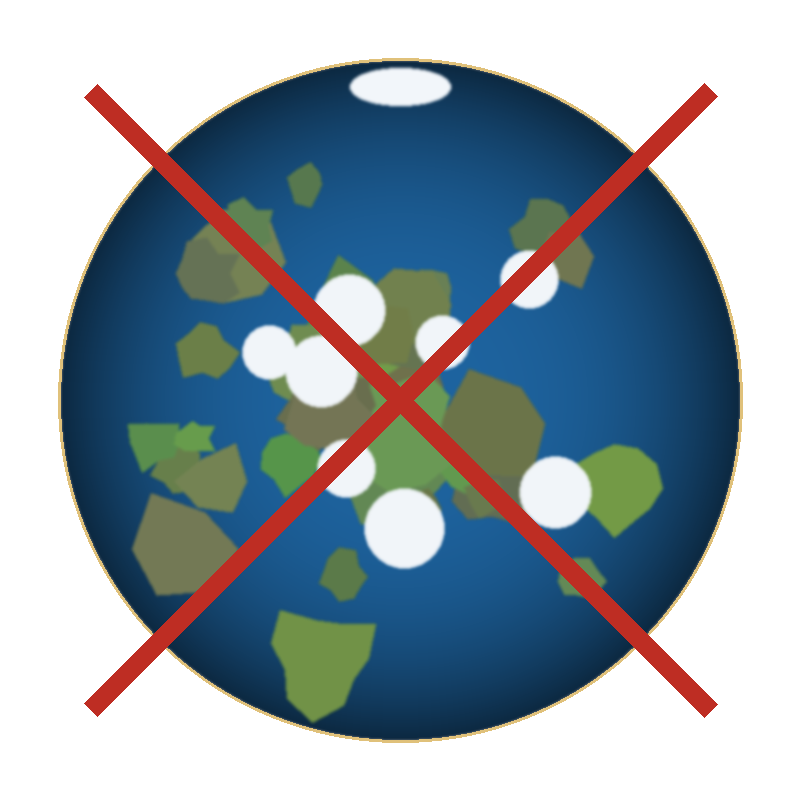
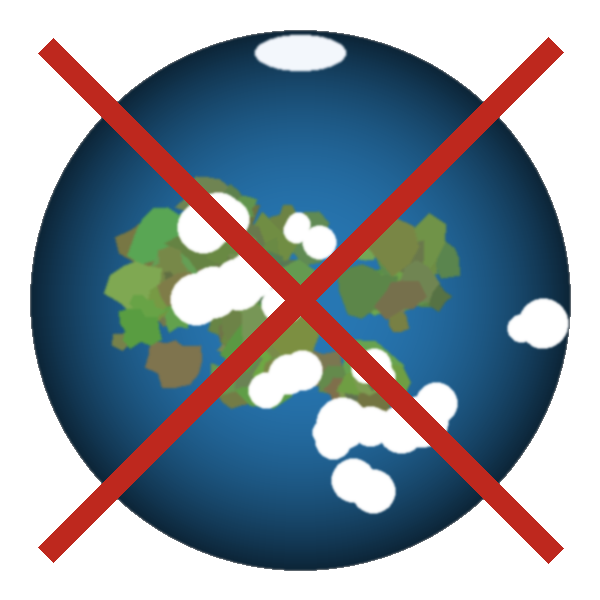
v10: 404 sombre, courbure textes agrandis, rotation fixee, AE routes image

Changed region(s): [[0.03, 0.03, 0.96, 0.96]]

diff --git a/src/components/lab/CurvatureCalc.tsx b/src/components/lab/CurvatureCalc.tsx
@@ -4,66 +4,51 @@ import { Canvas } from '@react-three/fiber';
 import { OrbitControls, Line, Html } from '@react-three/drei';
 import * as THREE from 'three';
 
-const R = 6371; // km
+const R = 6371;
+function horizonDist(h:number):number{return Math.sqrt((R+h)**2-R**2);}
+function hiddenH(d:number,h:number):number{const a=horizonDist(h);if(d<=a)return 0;return Math.sqrt(R**2+(d-a)**2)-R;}
+function curvDrop(d:number):number{return d**2/(2*R);}
+function fmt(km:number):string{if(km>=1)return km.toFixed(2)+' km';if(km>=0.001)return(km*1000).toFixed(1)+' m';return(km*100000).toFixed(1)+' cm';}
 
-// ─── Formules exactes (Pythagore) ───────────────
-function horizonDist(h: number): number { return Math.sqrt((R+h)**2 - R**2); }
-function hiddenH(d: number, h: number): number {
-  const a = horizonDist(h); if (d<=a) return 0;
-  return Math.sqrt(R**2 + (d-a)**2) - R;
-}
-function curvDrop(d: number): number { return d**2 / (2*R); }
-function fmt(km: number): string {
-  if(km>=1) return km.toFixed(2)+' km';
-  if(km>=0.001) return (km*1000).toFixed(1)+' m';
-  return (km*100000).toFixed(1)+' cm';
-}
-
-// Données vérifiées
 const PRESETS = [
-  { label:'Bedford Level',    d:10,  oh:0.2,   th:0.9,   note:'Télescope 20cm, drapeau 90cm, 10km' },
-  { label:'Chicago 90 km',    d:90,  oh:1.7,   th:443,   note:'Obs 1.7m, Willis Tower 443m' },
-  { label:'Canigou 263 km',   d:263, oh:50,    th:2784,  note:'Obs 50m (Marseille), sommet 2784m' },
-  { label:'Finestrelles 443 km', d:443, oh:2820, th:3144, note:'Pic Finestrelles 2820m → Pic Gaspard 3144m' },
-  { label:'Douvres→Calais',   d:33,  oh:100,   th:10,    note:'Falaises 100m, côte française ~10m' },
-  { label:'Everest 340 km',   d:340, oh:1.6,   th:8849,  note:'Obs 1.6m, sommet 8849m' },
-  { label:'Shkhara 493 km',   d:493, oh:3107,  th:5642,  note:'Obs 3107m → Mont Elbrouz 5642m' },
+  { label:'Finestrelles → Alpes (443 km)', d:443, oh:2820, th:4102,
+    desc:'Pic de Finestrelles (2 820 m) → Barre des Écrins (4 102 m). Record photo 2016, Marc Bret.' },
+  { label:'Navire — Île Maurice (321 km)', d:321, oh:0, th:30,
+    desc:'Observation depuis le niveau de la mer. Navire visible à 321 km (Fata Morgana, 1895).' },
+  { label:'Notre-Dame d\'Anvers (241 km)', d:241, oh:0, th:123,
+    desc:'Flèche de la cathédrale (123 m) vue par des capitaines de navires à 241 km.' },
+  { label:'Shkhara → Elbrouz (493 km)', d:493, oh:3107, th:5642,
+    desc:'Mont Karagöl (3 107 m) → Mont Elbrouz (5 642 m). Photo Richard Ježík, à travers la mer Noire.' },
 ];
 
-// ─── Input avec slider + saisie directe ─────────
-function NumInput({ label, value, onChange, min, max, unit, step=1 }:{
-  label:string; value:number; onChange:(v:number)=>void; min:number; max:number; unit:string; step?:number;
-}){
-  const display = unit==='m' 
-    ? (value>=1000 ? `${(value/1000).toFixed(1)} km` : `${value.toFixed(0)} m`)
-    : `${value} km`;
-  return (
-    <div className="border border-slate-800/50 bg-[#0A1020] p-3">
-      <label className="text-[8px] font-tech-mono text-slate-500 tracking-widest block mb-1">{label}</label>
-      <div className="flex items-center gap-2">
+function NumInput({label,value,onChange,min,max,unit,step=1}:{label:string;value:number;onChange:(v:number)=>void;min:number;max:number;unit:string;step?:number}){
+  return(
+    <div className="border border-slate-800/50 bg-[#0A1020] p-4">
+      <label className="text-[11px] font-tech-mono text-slate-400 tracking-widest block mb-2">{label}</label>
+      <div className="flex items-center gap-3">
         <input type="range" min={min} max={max} step={step} value={value}
-          onChange={e=>onChange(+e.target.value)} className="flex-1 accent-[#00C8FF]" />
+          onChange={e=>onChange(+e.target.value)} className="flex-1 accent-[#00C8FF] h-2" />
         <input type="number" min={min} max={max} step={step} value={value}
-          onChange={e=>{const v=+e.target.value; if(!isNaN(v)&&v>=min&&v<=max) onChange(v);}}
-          className="w-20 bg-[#050A12] border border-slate-700 text-[12px] font-tech-mono text-[#00C8FF] px-2 py-1 text-right"
+          onChange={e=>{const v=+e.target.value;if(!isNaN(v)&&v>=min&&v<=max)onChange(v);}}
+          className="w-24 bg-[#050A12] border border-slate-600 text-[14px] font-tech-mono text-[#00C8FF] px-3 py-2 text-right rounded-none"
         />
-        <span className="text-[9px] font-tech-mono text-slate-600 w-6">{unit}</span>
+        <span className="text-[12px] font-tech-mono text-slate-500 w-8">{unit}</span>
       </div>
     </div>
   );
 }
 
-// ─── Scène 3D ───────────────────────────────────
 function Scene({d,oh,th}:{d:number;oh:number;th:number}){
   const hidden=hiddenH(d,oh);
-  const maxDim=Math.max(d,80); const s=7/maxDim; const halfD=(d/2)*s;
+  const maxDim=Math.max(d,60);const s=5/maxDim;
   const arc=d/R;
   const curve=useMemo(()=>{
     const p:THREE.Vector3[]=[];
-    for(let i=0;i<=120;i++){const a=-arc/2+(i/120)*arc;p.push(new THREE.Vector3(Math.sin(a)*R*s,(Math.cos(a)-1)*R*s,0));}
+    for(let i=0;i<=150;i++){const a=-arc/2+(i/150)*arc;p.push(new THREE.Vector3(Math.sin(a)*R*s,(Math.cos(a)-1)*R*s,0));}
     return p;
   },[d,s,arc]);
-  const maxH=Math.max(oh,th,0.01); const hs=Math.min(s*200,4/maxH);
+  const maxH=Math.max(oh,th,0.001);const hs=Math.min(s*150,3/maxH);
+  const halfD=(d/2)*s;
   const oA=-arc/2,tA=arc/2;
   const oGx=Math.sin(oA)*R*s,oGy=(Math.cos(oA)-1)*R*s;
   const tGx=Math.sin(tA)*R*s,tGy=(Math.cos(tA)-1)*R*s;
@@ -73,46 +58,31 @@ function Scene({d,oh,th}:{d:number;oh:number;th:number}){
   const hidP:[number,number,number]=[tGx+tNx*Math.min(hidden,th)*hs,tGy+tNy*Math.min(hidden,th)*hs,0];
   const vis=hidden<th;
 
-  // Point d'horizon sur la courbe
-  const hDist=horizonDist(oh);
-  const hAngle=-arc/2 + (hDist/d)*arc;
-  const hx=Math.sin(hAngle)*R*s, hy=(Math.cos(hAngle)-1)*R*s;
-
-  return <>
+  return<>
     <ambientLight intensity={0.5}/>
-    {/* GLOBE */}
-    <group position={[0,2.5,0]}>
-      <Line points={curve} color="#00C8FF" lineWidth={2}/>
-      {/* Observateur */}
+    {/* GLOBE — centré verticalement plus haut */}
+    <group position={[0,3,0]}>
+      <Line points={curve} color="#00C8FF" lineWidth={2.5}/>
       <Line points={[new THREE.Vector3(oGx,oGy,0),new THREE.Vector3(...obsP)]} color="#00C8FF" lineWidth={2}/>
-      <mesh position={obsP}><sphereGeometry args={[0.06,12,12]}/><meshBasicMaterial color="#00C8FF"/></mesh>
-      {/* Cible — partie visible (vert) */}
-      {vis && <Line points={[
-        new THREE.Vector3(tGx+tNx*hidden*hs,tGy+tNy*hidden*hs,0),
-        new THREE.Vector3(...tgtP)
-      ]} color="#00E87B" lineWidth={2.5}/>}
-      {/* Cible — partie cachée (rouge) */}
-      {hidden>0 && <Line points={[new THREE.Vector3(tGx,tGy,0),new THREE.Vector3(...hidP)]} color="#FF4444" lineWidth={3}/>}
-      {/* Ligne de visée */}
+      <mesh position={obsP}><sphereGeometry args={[0.08,12,12]}/><meshBasicMaterial color="#00C8FF"/></mesh>
+      {vis&&<Line points={[new THREE.Vector3(tGx+tNx*hidden*hs,tGy+tNy*hidden*hs,0),new THREE.Vector3(...tgtP)]} color="#00E87B" lineWidth={3}/>}
+      {hidden>0&&<Line points={[new THREE.Vector3(tGx,tGy,0),new THREE.Vector3(...hidP)]} color="#FF4444" lineWidth={4}/>}
       <Line points={[new THREE.Vector3(...obsP),new THREE.Vector3(...tgtP)]}
         color={vis?'#00E87B':'#FF4444'} lineWidth={1} opacity={0.4} transparent dashed dashSize={0.08} gapSize={0.04}/>
-      {/* Ligne d'horizon */}
-      {hDist<d && <Line points={[new THREE.Vector3(...obsP),new THREE.Vector3(hx,hy,0)]}
-        color="#FFFFFF" lineWidth={0.5} opacity={0.2} transparent dashed dashSize={0.05} gapSize={0.03}/>}
-      <Html position={[0,4.2,0]} center distanceFactor={12} style={{pointerEvents:'none'}}>
-        <div style={{color:'#00C8FF',fontSize:'10px',fontFamily:'monospace',letterSpacing:'0.1em'}}>MODÈLE GLOBE (R = 6 371 km)</div>
+      <Html position={[0,2.5,0]} center distanceFactor={10} style={{pointerEvents:'none'}}>
+        <div style={{color:'#00C8FF',fontSize:'13px',fontFamily:'monospace',letterSpacing:'0.12em',fontWeight:'bold'}}>MODÈLE GLOBE (R = 6 371 km)</div>
       </Html>
     </group>
-    {/* PLAN */}
-    <group position={[0,-2.5,0]}>
-      <Line points={[new THREE.Vector3(-halfD-0.5,0,0),new THREE.Vector3(halfD+0.5,0,0)]} color="#D4A843" lineWidth={2}/>
+    {/* PLAN — centré plus bas */}
+    <group position={[0,-3.5,0]}>
+      <Line points={[new THREE.Vector3(-halfD-0.5,0,0),new THREE.Vector3(halfD+0.5,0,0)]} color="#D4A843" lineWidth={2.5}/>
       <Line points={[new THREE.Vector3(-halfD,0,0),new THREE.Vector3(-halfD,oh*hs,0)]} color="#D4A843" lineWidth={2}/>
-      <mesh position={[-halfD,oh*hs,0]}><sphereGeometry args={[0.06,12,12]}/><meshBasicMaterial color="#D4A843"/></mesh>
+      <mesh position={[-halfD,oh*hs,0]}><sphereGeometry args={[0.08,12,12]}/><meshBasicMaterial color="#D4A843"/></mesh>
       <Line points={[new THREE.Vector3(halfD,0,0),new THREE.Vector3(halfD,th*hs,0)]} color="#00E87B" lineWidth={2}/>
       <Line points={[new THREE.Vector3(-halfD,oh*hs,0),new THREE.Vector3(halfD,th*hs,0)]}
         color="#00E87B" lineWidth={1} opacity={0.4} transparent dashed dashSize={0.08} gapSize={0.04}/>
-      <Html position={[0,2,0]} center distanceFactor={12} style={{pointerEvents:'none'}}>
-        <div style={{color:'#D4A843',fontSize:'10px',fontFamily:'monospace',letterSpacing:'0.1em'}}>MODÈLE PLAN — toujours visible</div>
+      <Html position={[0,2,0]} center distanceFactor={10} style={{pointerEvents:'none'}}>
+        <div style={{color:'#D4A843',fontSize:'13px',fontFamily:'monospace',letterSpacing:'0.12em',fontWeight:'bold'}}>MODÈLE PLAN — toujours visible</div>
       </Html>
     </group>
     <OrbitControls enablePan enableZoom maxDistance={20} minDistance={3}/>
@@ -120,31 +90,33 @@ function Scene({d,oh,th}:{d:number;oh:number;th:number}){
 }
 
 export default function CurvatureCalc(){
-  const [dist,setDist]=useState(90);
-  const [obsM,setObsM]=useState(1.7);
-  const [tgtM,setTgtM]=useState(443);
+  const [dist,setDist]=useState(443);
+  const [obsM,setObsM]=useState(2820);
+  const [tgtM,setTgtM]=useState(4102);
   const oh=obsM/1000,th=tgtM/1000;
   const hidden=hiddenH(dist,oh);
   const hDist=horizonDist(oh);
   const drop=curvDrop(dist);
   const vis=hidden<th;
 
-  return <div className="w-full">
-    <div className="grid grid-cols-1 md:grid-cols-3 gap-3 mb-4">
-      <NumInput label="DISTANCE" value={dist} onChange={setDist} min={1} max={2000} unit="km"/>
-      <NumInput label="HAUTEUR OBSERVATEUR" value={obsM} onChange={setObsM} min={1} max={500000} unit="m"/>
-      <NumInput label="HAUTEUR CIBLE" value={tgtM} onChange={setTgtM} min={1} max={10000} unit="m"/>
+  return<div className="w-full">
+    <div className="grid grid-cols-1 md:grid-cols-3 gap-3 mb-5">
+      <NumInput label="DISTANCE" value={dist} onChange={setDist} min={0} max={2000} unit="km"/>
+      <NumInput label="HAUTEUR OBSERVATEUR" value={obsM} onChange={setObsM} min={0} max={500000} unit="m"/>
+      <NumInput label="HAUTEUR CIBLE" value={tgtM} onChange={setTgtM} min={0} max={10000} unit="m"/>
     </div>
-    <div className="flex flex-wrap gap-2 mb-4">
-      <span className="text-[8px] font-tech-mono text-slate-600 self-center">CAS RÉELS :</span>
+
+    <div className="flex flex-wrap gap-2 mb-5">
+      <span className="text-[11px] font-tech-mono text-slate-500 self-center">CAS RÉELS :</span>
       {PRESETS.map(p=>(
         <button key={p.label} onClick={()=>{setDist(p.d);setObsM(p.oh);setTgtM(p.th);}}
-          title={p.note}
-          className="px-3 py-1 text-[8px] font-tech-mono border border-slate-700 text-slate-400 hover:border-[#00C8FF]/40 hover:text-[#00C8FF] transition-all"
+          title={p.desc}
+          className="px-4 py-2 text-[11px] font-tech-mono border border-slate-600 text-slate-300 hover:border-[#00C8FF]/50 hover:text-[#00C8FF] transition-all"
         >{p.label}</button>
       ))}
     </div>
-    <div className="w-full h-[50vh] md:h-[60vh] border border-slate-800/50 bg-[#030810] relative overflow-hidden">
+
+    <div className="w-full h-[55vh] md:h-[65vh] border border-slate-800/50 bg-[#030810] relative overflow-hidden">
       <div className="absolute top-0 left-0 w-4 h-4 border-t border-l border-[#00C8FF]/30 z-10"/>
       <div className="absolute top-0 right-0 w-4 h-4 border-t border-r border-[#00C8FF]/30 z-10"/>
       <div className="absolute bottom-0 left-0 w-4 h-4 border-b border-l border-[#00C8FF]/30 z-10"/>
@@ -153,35 +125,40 @@ export default function CurvatureCalc(){
         <Scene d={dist} oh={oh} th={th}/>
       </Canvas>
     </div>
-    <div className="mt-4 grid grid-cols-2 md:grid-cols-4 gap-3">
-      <div className="border border-cyan-900/30 bg-[#0A1020] p-3">
-        <div className="text-[8px] font-tech-mono text-cyan-400/60 tracking-widest mb-1">HORIZON</div>
-        <div className="text-[16px] font-tech-mono text-cyan-400">{hDist.toFixed(1)} km</div>
-        <div className="text-[8px] font-tech-mono text-slate-500 mt-1">a = √[(R+h)² - R²]</div>
+
+    <div className="mt-5 grid grid-cols-2 md:grid-cols-4 gap-3">
+      <div className="border border-cyan-900/30 bg-[#0A1020] p-4">
+        <div className="text-[11px] font-tech-mono text-cyan-400/70 tracking-widest mb-2">HORIZON</div>
+        <div className="text-[20px] font-tech-mono text-cyan-400 font-bold">{hDist.toFixed(1)} km</div>
+        <div className="text-[10px] font-tech-mono text-slate-500 mt-1">a = √[(R+h)² - R²]</div>
       </div>
-      <div className="border border-red-900/30 bg-[#0A1020] p-3">
-        <div className="text-[8px] font-tech-mono text-red-400/60 tracking-widest mb-1">CHUTE COURBURE</div>
-        <div className="text-[16px] font-tech-mono text-red-400">{fmt(drop)}</div>
-        <div className="text-[8px] font-tech-mono text-slate-500 mt-1">h = d²/(2R)</div>
+      <div className="border border-red-900/30 bg-[#0A1020] p-4">
+        <div className="text-[11px] font-tech-mono text-red-400/70 tracking-widest mb-2">CHUTE COURBURE</div>
+        <div className="text-[20px] font-tech-mono text-red-400 font-bold">{fmt(drop)}</div>
+        <div className="text-[10px] font-tech-mono text-slate-500 mt-1">h = d²/(2R)</div>
       </div>
-      <div className="border border-amber-900/30 bg-[#0A1020] p-3">
-        <div className="text-[8px] font-tech-mono text-amber-400/60 tracking-widest mb-1">HAUTEUR CACHÉE</div>
-        <div className="text-[16px] font-tech-mono text-amber-400">{fmt(hidden)}</div>
-        <div className="text-[8px] font-tech-mono text-slate-500 mt-1">x = √[R²+(d-a)²]-R</div>
+      <div className="border border-amber-900/30 bg-[#0A1020] p-4">
+        <div className="text-[11px] font-tech-mono text-amber-400/70 tracking-widest mb-2">HAUTEUR CACHÉE</div>
+        <div className="text-[20px] font-tech-mono text-amber-400 font-bold">{fmt(hidden)}</div>
+        <div className="text-[10px] font-tech-mono text-slate-500 mt-1">x = √[R²+(d-a)²]-R</div>
       </div>
-      <div className={`border p-3 ${vis?'border-green-900/30 bg-green-950/20':'border-red-900/30 bg-red-950/20'}`}>
-        <div className="text-[8px] font-tech-mono text-slate-400/60 tracking-widest mb-1">VERDICT GLOBE</div>
-        <div className={`text-[14px] font-tech-mono ${vis?'text-green-400':'text-red-400'}`}>{vis?'✓ CIBLE VISIBLE':'✗ CIBLE MASQUÉE'}</div>
-        <div className="text-[8px] font-tech-mono text-slate-500 mt-1">
-          {vis?`Visible : ${fmt(th-hidden)} sur ${fmt(th)}`:`Caché : ${fmt(hidden)} &gt; cible : ${fmt(th)}`}
+      <div className={`border p-4 ${vis?'border-green-900/30 bg-green-950/20':'border-red-900/30 bg-red-950/20'}`}>
+        <div className="text-[11px] font-tech-mono text-slate-400/70 tracking-widest mb-2">VERDICT GLOBE</div>
+        <div className={`text-[18px] font-tech-mono font-bold ${vis?'text-green-400':'text-red-400'}`}>{vis?'✓ VISIBLE':'✗ MASQUÉE'}</div>
+        <div className="text-[10px] font-tech-mono text-slate-500 mt-1">
+          {vis?`Visible : ${fmt(th-hidden)} sur ${fmt(th)}`:`Caché : ${fmt(hidden)} > cible : ${fmt(th)}`}
         </div>
       </div>
     </div>
-    <div className="mt-3 text-[9px] font-tech-mono text-slate-600 px-1">⚠ Ne tient pas compte de la réfraction atmosphérique.</div>
-    <div className="mt-3 border-t border-slate-800/30 pt-3 flex items-center gap-4">
-      <span className="text-[8px] font-tech-mono text-slate-600">ARTICLES :</span>
-      <a href="/article/leau-ne-ment-pas" className="text-[9px] font-tech-mono text-[#00C8FF]/50 hover:text-[#00C8FF]">L&apos;eau ne ment pas →</a>
-      <a href="/article/ce-quon-voit-quand-on-ne-devrait-plus-voir" className="text-[9px] font-tech-mono text-[#00C8FF]/50 hover:text-[#00C8FF]">Ce qu&apos;on voit →</a>
+
+    <div className="mt-4 text-[11px] font-tech-mono text-slate-500 px-1">
+      ⚠ Ne tient pas compte de la réfraction atmosphérique — qui peut rendre visible un objet théoriquement masqué.
+    </div>
+
+    <div className="mt-4 border-t border-slate-800/30 pt-4 flex items-center gap-5">
+      <span className="text-[11px] font-tech-mono text-slate-500">ARTICLES :</span>
+      <a href="/article/leau-ne-ment-pas" className="text-[12px] font-tech-mono text-[#00C8FF]/60 hover:text-[#00C8FF]">L&apos;eau ne ment pas →</a>
+      <a href="/article/ce-quon-voit-quand-on-ne-devrait-plus-voir" className="text-[12px] font-tech-mono text-[#00C8FF]/60 hover:text-[#00C8FF]">Ce qu&apos;on voit →</a>
     </div>
   </div>;
 }

diff --git a/src/app/not-found.tsx b/src/app/not-found.tsx
@@ -3,57 +3,31 @@ import Image from 'next/image';
 
 export default function NotFound() {
   return (
-    <div className="min-h-screen flex flex-col items-center justify-center px-6 bg-[#F5F0E8]">
-      {/* Globe barré */}
-      <div className="mb-8">
-        <Image
-          src="/images/globe-crossed.png"
-          alt="Globe terrestre barré"
-          width={280}
-          height={280}
-          priority
-        />
+    <div className="min-h-screen flex flex-col items-center justify-center px-6 bg-[#050A12]">
+      <div className="mb-10">
+        <Image src="/images/globe-crossed.png" alt="Globe barré" width={260} height={260} priority />
       </div>
-
-      {/* Badge ERREUR 404 */}
-      <div className="border-2 border-[#D4A843] px-6 py-2 mb-6">
-        <span className="text-[13px] font-orbitron tracking-[0.25em] text-[#D4A843]">
-          ERREUR 404
-        </span>
+      <div className="border-2 border-[#D4A843] px-6 py-2 mb-8">
+        <span className="text-[14px] font-orbitron tracking-[0.25em] text-[#D4A843]">ERREUR 404</span>
       </div>
-
-      {/* Titre */}
-      <h1 className="text-4xl md:text-5xl font-bold text-[#1a1a1a] text-center mb-8 leading-tight"
-          style={{ fontFamily: 'Georgia, serif' }}>
-        Ce modèle n&apos;existe<br />pas non plus
+      <h1 className="text-4xl md:text-5xl font-bold text-[#C8D8E8] text-center mb-8 leading-tight" style={{fontFamily:'Georgia, serif'}}>
+        Ce modèle n&apos;existe<br/>pas non plus
       </h1>
-
-      {/* Sous-titre */}
-      <p className="text-[15px] text-[#666] text-center mb-10 max-w-md leading-relaxed">
-        La page que vous cherchez n&apos;a pas été trouvée.<br />
+      <p className="text-[16px] text-[#C8D8E8]/50 text-center mb-12 max-w-md leading-relaxed">
+        La page que vous cherchez n&apos;a pas été trouvée.<br/>
         Comme la courbure — elle devrait être là, mais elle n&apos;y est pas.
       </p>
-
-      {/* Boutons */}
-      <div className="flex flex-wrap gap-4 justify-center mb-12">
-        <Link href="/"
-          className="px-8 py-3 bg-[#D4A843] text-white text-[12px] font-orbitron tracking-[0.15em] hover:bg-[#c09535] transition-colors">
+      <div className="flex flex-wrap gap-4 justify-center mb-14">
+        <Link href="/" className="px-8 py-3 bg-[#D4A843] text-[#050A12] text-[13px] font-orbitron tracking-[0.15em] hover:bg-[#c09535] transition-colors">
           RETOUR À L&apos;ACCUEIL
         </Link>
-        <Link href="/nexus"
-          className="px-8 py-3 border-2 border-[#1a1a1a] text-[#1a1a1a] text-[12px] font-orbitron tracking-[0.15em] hover:bg-[#1a1a1a] hover:text-white transition-colors">
+        <Link href="/nexus" className="px-8 py-3 border-2 border-[#C8D8E8]/40 text-[#C8D8E8] text-[13px] font-orbitron tracking-[0.15em] hover:bg-[#C8D8E8]/10 transition-colors">
           EXPLORER LE NEXUS
         </Link>
       </div>
-
-      {/* Citation coranique */}
       <div className="text-center">
-        <p className="text-[14px] italic text-[#D4A843]/80 mb-1">
-          « Et la terre, comment elle a été étendue ? »
-        </p>
-        <p className="text-[13px] text-[#D4A843]/60">
-          — Al-Ghashiyah, 88:20
-        </p>
+        <p className="text-[15px] italic text-[#D4A843]/70 mb-1 font-amiri">« Et la terre, comment elle a été étendue ? »</p>
+        <p className="text-[13px] text-[#D4A843]/40">— Al-Ghashiyah, 88:20</p>
       </div>
     </div>
   );

diff --git a/src/components/lab/ProjectionSim.tsx b/src/components/lab/ProjectionSim.tsx
@@ -67,7 +67,7 @@ export default function ProjectionSim(){
     let loaded=0;
     const check=()=>{loaded++;if(loaded===2)setImgCache({...imgs});};
     const m=new Image();m.crossOrigin='anonymous';m.onload=()=>{imgs['mercator']=m;check();};m.src='/textures/mercator-map.jpg';
-    const a=new Image();a.crossOrigin='anonymous';a.onload=()=>{imgs['azimuthal']=a;check();};a.src='/textures/ae-map.jpg';
+    const a=new Image();a.crossOrigin='anonymous';a.onload=()=>{imgs['azimuthal']=a;check();};a.src='/textures/ae-map-routes.jpg';
   },[]);
 
   const draw=useCallback(()=>{
@@ -77,22 +77,22 @@ export default function ProjectionSim(){
     const ctx=cv.getContext('2d');if(!ctx)return;
     ctx.fillStyle='#050A12';ctx.fillRect(0,0,W,H);
     ctx.drawImage(img,0,0,W,H);
-    if(!showRoutes)return;
+    if(!showRoutes || projection==='azimuthal') return;
 
     activeRoutes.forEach(route=>{
-      const pts=projection==='azimuthal'?[route.from,route.to]:greatCircle(route.from,route.to);
+      const pts=greatCircle(route.from,route.to);
       ctx.strokeStyle=route.color;ctx.lineWidth=3;ctx.lineJoin='round';ctx.lineCap='round';ctx.setLineDash([]);
       ctx.beginPath();let started=false;let prevX=0;
       pts.forEach(pt=>{
-        const [x,y]=proj(projection,pt.lat,pt.lng,W,H);
+        const [x,y]=mercProj(pt.lat,pt.lng,W,H);
         if(!started){ctx.moveTo(x,y);started=true;prevX=x;return;}
         if(Math.abs(x-prevX)>W*0.4){ctx.moveTo(x,y);}else{ctx.lineTo(x,y);}
         prevX=x;
       });
       ctx.stroke();
 
-      const [fx,fy]=proj(projection,route.from.lat,route.from.lng,W,H);
-      const [tx,ty]=proj(projection,route.to.lat,route.to.lng,W,H);
+      const [fx,fy]=mercProj(route.from.lat,route.from.lng,W,H);
+      const [tx,ty]=mercProj(route.to.lat,route.to.lng,W,H);
       [{x:fx,y:fy,l:route.from.label},{x:tx,y:ty,l:route.to.label}].forEach(({x,y,l})=>{
         ctx.fillStyle=route.color;ctx.beginPath();ctx.arc(x,y,6,0,Math.PI*2);ctx.fill();
         ctx.globalAlpha=0.2;ctx.beginPath();ctx.arc(x,y,12,0,Math.PI*2);ctx.fill();ctx.globalAlpha=1;

diff --git a/src/components/lab/celestialCalc.ts b/src/components/lab/celestialCalc.ts
@@ -99,8 +99,9 @@ export function latLngToFlatDisc(lat: number, lng: number, discRadius: number): 
   const AE_OFFSET = 128;
   const lngRad = ((lng + AE_OFFSET) * Math.PI) / 180;
   const r = ((90 - lat) / 180) * discRadius;
-  const x = Math.sin(lngRad) * r;
-  const z = -Math.cos(lngRad) * r;
+  // Inverser x pour corriger le sens de rotation (horaire vu du dessus)
+  const x = -Math.sin(lngRad) * r;
+  const z = Math.cos(lngRad) * r;
   return [x, z];
 }
 